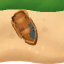
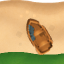
feat: adiciona colisao com terreno, responsividade do canvas e ajustes no mapa

diff --git a/src/game/Game.ts b/src/game/Game.ts
@@ -1,40 +1,87 @@
-import { Application } from 'pixi.js';
+import { Application, Assets, Texture } from 'pixi.js';
+
+import { GAME_CONFIG, ISLAND_GRID } from './config';
+import { Ship } from './entities/Ship';
+import { WaterBackground } from './entities/WaterBackGround';
+import { IslandMap } from './entities/IslandMap';
 
 export class GameEngine {
     public app: Application;
     private isDestroyed = false;
+    private playerShip?: Ship;
+    private waterBackground?: WaterBackground;
 
     constructor() {
         this.app = new Application();
-    }
+    };
+
+    private async loadTileTextures(grid: number[][]): Promise<Map<number, Texture>> {
+        const uniqueIds = Array.from(new Set(grid.flat())).filter((id) => id > 0);
+        const textureMap = new Map<number, Texture>();
+
+        await Promise.all(
+            uniqueIds.map(async (id) => {
+                const texture = await Assets.load(`/public/assets/png/default/tiles/tile_${id}.png`);
+                textureMap.set(id, texture);
+            })
+        );
+
+        return textureMap;
+    };
 
     public async init(container: HTMLDivElement) {
         await this.app.init({
-            width: 1280,
-            height: 720,
+            width: GAME_CONFIG.CANVAS_WIDTH,
+            height: GAME_CONFIG.CANVAS_HEIGHT,
             backgroundColor: 0x0f172a,
             resolution: window.devicePixelRatio || 1,
             autoDensity: true,
         });
 
-        if(this.isDestroyed)  {
-            this.app.destroy(true, { children: true});
+        if (this.isDestroyed) {
+            this.app.destroy(true, { children: true });
             return
         }
 
         container.appendChild(this.app.canvas);
+
+        const [waterTexture, shipTexture, tileTextures] = await Promise.all([
+            Assets.load('/public/assets/png/default/tiles/tile_73.png'),
+            Assets.load('/public/assets/png/default/ships/ship_1.png'),
+            this.loadTileTextures(ISLAND_GRID)
+        ]);
+
+        if (this.isDestroyed) return;
+
+        this.waterBackground = new WaterBackground(waterTexture);
+        this.app.stage.addChild(this.waterBackground);
+
+        const islandMap = new IslandMap(ISLAND_GRID, tileTextures);
+        this.app.stage.addChild(islandMap);
+
+        this.playerShip = new Ship(shipTexture);
+        this.app.stage.addChild(this.playerShip);
+
         this.startLoop();
     }
 
     private startLoop() {
         this.app.ticker.add((ticker) => {
-            // Toda a lógica do jogo roda aqui em TS puro, longe do React
+            const deltaSeconds = ticker.deltaTime / 60;
+
+            if (this.waterBackground) {
+                this.waterBackground.update(deltaSeconds);
+            }
+
+            if (this.playerShip) {
+                this.playerShip.update(deltaSeconds);
+            }
         });
     }
 
     public destroy() {
         this.isDestroyed = true;
-        if(this.app.renderer) {
+        if (this.app.renderer) {
             this.app.destroy(true, { children: true });
         }
     }

diff --git a/src/game/entities/Ship.ts b/src/game/entities/Ship.ts
@@ -1,0 +1,75 @@
+import { Container, Sprite, Texture } from "pixi.js";
+import { GAME_CONFIG } from "../config";
+import { checkShipCollision } from "../utils/collision";
+
+export class Ship extends Container {
+    public speed = GAME_CONFIG.SHIP_SPEED;
+    public rotationSpeed = GAME_CONFIG.SHIP_ROTATION_SPEED;
+    private keys: Record<string, boolean> = {};
+    private sprite: Sprite;
+
+    private handleKeyDown = (e: KeyboardEvent) => (this.keys[e.code] = true);
+    private handleKeyUp = (e: KeyboardEvent) => (this.keys[e.code] = false);
+
+    constructor(texture: Texture) {
+        super();
+
+        this.sprite = new Sprite(texture);
+        this.sprite.anchor.set(0.5);
+        this.sprite.rotation = Math.PI;
+        this.sprite.scale.set(0.5);
+
+        this.addChild(this.sprite);
+
+        this.x = GAME_CONFIG.CANVAS_WIDTH / 3;
+        this.y = GAME_CONFIG.CANVAS_HEIGHT / 2;
+        this.setupInputs();
+    };
+
+    private setupInputs() {
+        window.addEventListener('keydown', this.handleKeyDown);
+        window.addEventListener('keyup', this.handleKeyUp);
+    };
+
+    public update(deltaSeconds: number) {
+        if (this.keys['KeyA'] || this.keys['ArrowLeft']) {
+            this.rotation -= this.rotationSpeed * deltaSeconds;
+        };
+
+        if (this.keys['KeyD'] || this.keys['ArrowRight']) {
+            this.rotation += this.rotationSpeed * deltaSeconds;
+        };
+
+        let dx = 0;
+        let dy = 0;
+
+        if (this.keys['KeyW'] || this.keys['ArrowUp']) {
+            dx += Math.sin(this.rotation) * this.speed * deltaSeconds;
+            dy -= Math.cos(this.rotation) * this.speed * deltaSeconds;
+        };
+
+        if (dx !== 0) {
+            const nextX = this.x + dx;
+            const boundedX = Math.max(25, Math.min(GAME_CONFIG.CANVAS_WIDTH - 25, nextX));
+
+            if (!checkShipCollision(boundedX, this.y)) {
+                this.x = boundedX;
+            }
+        }
+
+        if (dy !== 0) {
+            const nextY = this.y + dy;
+            const boundedY = Math.max(25, Math.min(GAME_CONFIG.CANVAS_HEIGHT - 25, nextY));
+
+            if (!checkShipCollision(this.x, boundedY)) {
+                this.y = boundedY;
+            }
+        }
+    };
+
+    public destroy(options?: any) {
+        window.removeEventListener('keydown', this.handleKeyDown);
+        window.removeEventListener('keyup', this.handleKeyUp);
+        super.destroy(options);
+    };
+};

diff --git a/src/game/config.ts b/src/game/config.ts
@@ -1,0 +1,21 @@
+export const GAME_CONFIG = {
+    CANVAS_WIDTH: 1280,
+    CANVAS_HEIGHT: 720,
+    SHIP_SPEED: 250,
+    SHIP_ROTATION_SPEED: 3.5,
+};
+
+export const ISLAND_GRID = [
+    [55, 56, 37, 23, 39, 39, 40, 41, 0, 0, 0, 0, 0, 0, 0, 0, 0, 0, 0, 0],
+    [0, 0, 22, 23, 24, 36, 56, 57, 0, 0, 0, 0, 0, 0, 0, 0, 0, 0, 0, 0],
+    [0, 0, 38, 39, 40, 86, 0, 0, 0, 0, 0, 0, 0, 0, 0, 0, 0, 0, 0, 0],
+    [0, 0, 54, 56, 55, 57, 0, 0, 0, 0, 6, 7, 8, 9, 0, 0, 0, 0, 0, 0],
+    [0, 0, 0, 0, 0, 0, 0, 0, 0, 0, 38, 39, 40, 52, 9, 0, 0, 0, 0, 0],
+    [0, 0, 0, 0, 0, 0, 0, 0, 0, 0, 54, 37, 23, 24, 25, 0, 0, 0, 0, 0],
+    [0, 0, 0, 0, 0, 0, 0, 0, 0, 0, 0, 54, 55, 56, 57, 0, 0, 0, 0, 0],
+    [0, 0, 0, 0, 0, 0, 0, 0, 0, 0, 0, 0, 0, 0, 0, 0, 0, 0, 0, 0],
+    [0, 0, 0, 0, 0, 0, 0, 0, 0, 0, 0, 0, 0, 0, 0, 0, 6, 7, 8, 9],
+    [0, 0, 0, 0, 0, 0, 0, 0, 0, 0, 6, 7, 7, 82, 9, 0, 22, 23, 24, 25],
+    [0, 0, 0, 0, 0, 0, 0, 0, 0, 0, 22, 23, 23, 24, 52, 7, 53, 24, 40, 41],
+    [0, 0, 0, 0, 0, 0, 0, 0, 0, 0, 22, 23, 23, 24, 40, 23, 40, 40, 40, 41],
+];

diff --git a/src/game/entities/IslandMap.ts b/src/game/entities/IslandMap.ts
@@ -1,0 +1,30 @@
+import { Container, Sprite, Texture } from 'pixi.js';
+
+export const TILE_SIZE = 64;
+
+export interface TileTextures {
+    shallowWater: Texture;
+    sand: Texture;
+    grass: Texture;
+}
+
+export class IslandMap extends Container {
+    constructor(grid: number[][], textureMap: Map<number, Texture>) {
+        super();
+
+        for (let row = 0; row < grid.length; row++) {
+            for (let col = 0; col < grid[row].length; col++) {
+                const tileId = grid[row][col];
+                if (tileId === 0) continue;
+
+                const texture = textureMap.get(tileId);
+                if (texture) {
+                    const sprite = new Sprite(texture);
+                    sprite.x = col * TILE_SIZE;
+                    sprite.y = row * TILE_SIZE;
+                    this.addChild(sprite);
+                }
+            }
+        }
+    }
+}

diff --git a/src/game/utils/collision.ts b/src/game/utils/collision.ts
@@ -1,0 +1,25 @@
+import { ISLAND_GRID } from '../config';
+
+const TILE_SIZE = 64;
+const SHIP_RADIUS = 18;
+
+export function isPointSolid(x: number, y: number): boolean {
+    const col = Math.floor(x / TILE_SIZE);
+    const row = Math.floor(y / TILE_SIZE);
+
+    if (row < 0 || row >= ISLAND_GRID.length || col < 0 || col >= ISLAND_GRID[0].length) {
+        return true;
+    }
+
+    return ISLAND_GRID[row][col] !== 0;
+}
+
+export function checkShipCollision(x: number, y: number): boolean {
+    return (
+        isPointSolid(x, y) ||
+        isPointSolid(x + SHIP_RADIUS, y) ||
+        isPointSolid(x - SHIP_RADIUS, y) ||
+        isPointSolid(x, y + SHIP_RADIUS) ||
+        isPointSolid(x, y - SHIP_RADIUS)
+    );
+}

diff --git a/src/game/entities/WaterBackground.ts b/src/game/entities/WaterBackground.ts
@@ -1,0 +1,23 @@
+import { Container, TilingSprite, Texture } from 'pixi.js';
+import { GAME_CONFIG } from '../config';
+
+export class WaterBackground extends Container {
+    private tilingSprite: TilingSprite;
+
+    constructor(texture: Texture) {
+        super();
+
+        this.tilingSprite = new TilingSprite({
+            texture,
+            width: GAME_CONFIG.CANVAS_WIDTH,
+            height: GAME_CONFIG.CANVAS_HEIGHT,
+        });
+
+        this.addChild(this.tilingSprite);
+    }
+
+    public update(deltaSeconds: number) {
+        this.tilingSprite.tilePosition.x += 10 * deltaSeconds;
+        this.tilingSprite.tilePosition.y += 5 * deltaSeconds;
+    }
+};

diff --git a/src/components/canvas/GameContainer.tsx b/src/components/canvas/GameContainer.tsx
@@ -3,11 +3,6 @@ import { GameEngine } from '../../game/Game';
 import styled from 'styled-components';
 
 const Container = styled.div`
-    width: 100vw;
-    height: 100dvh;
-    display: flex;
-    justify-content: center;
-    align-items: center;
     background-color: #000;
 `;
 
@@ -25,5 +20,5 @@ export const GameContainer = () => {
         }
     }, []);
 
-    return <Container ref={containerRef} />;
+    return <Container className="game-container" ref={containerRef} />;
 }

diff --git a/src/styles/styles.ts b/src/styles/styles.ts
@@ -19,5 +19,20 @@ export const GlobalStyles = createGlobalStyle`
         -ms-user-select: none;
     }
 
+    .game-container {
+        width: 100vw;
+        height: 100vh;
+        display: flex;
+        justify-content: center;
+        align-items: center;
+    }
+
+    .game-container canvas {
+        max-width: 100%;
+        max-height: 100%;
+        aspect-ratio: 16 / 9;
+        object-fit: contain;
+        display: block;
+    }
 `
 

diff --git a/index.html b/index.html
@@ -1,5 +1,5 @@
 <!doctype html>
-<html lang="en">
+<html lang="pt-br">
   <head>
     <meta charset="UTF-8" />
     <!-- <link rel="icon" type="image/svg+xml" href="/favicon.svg" /> -->
